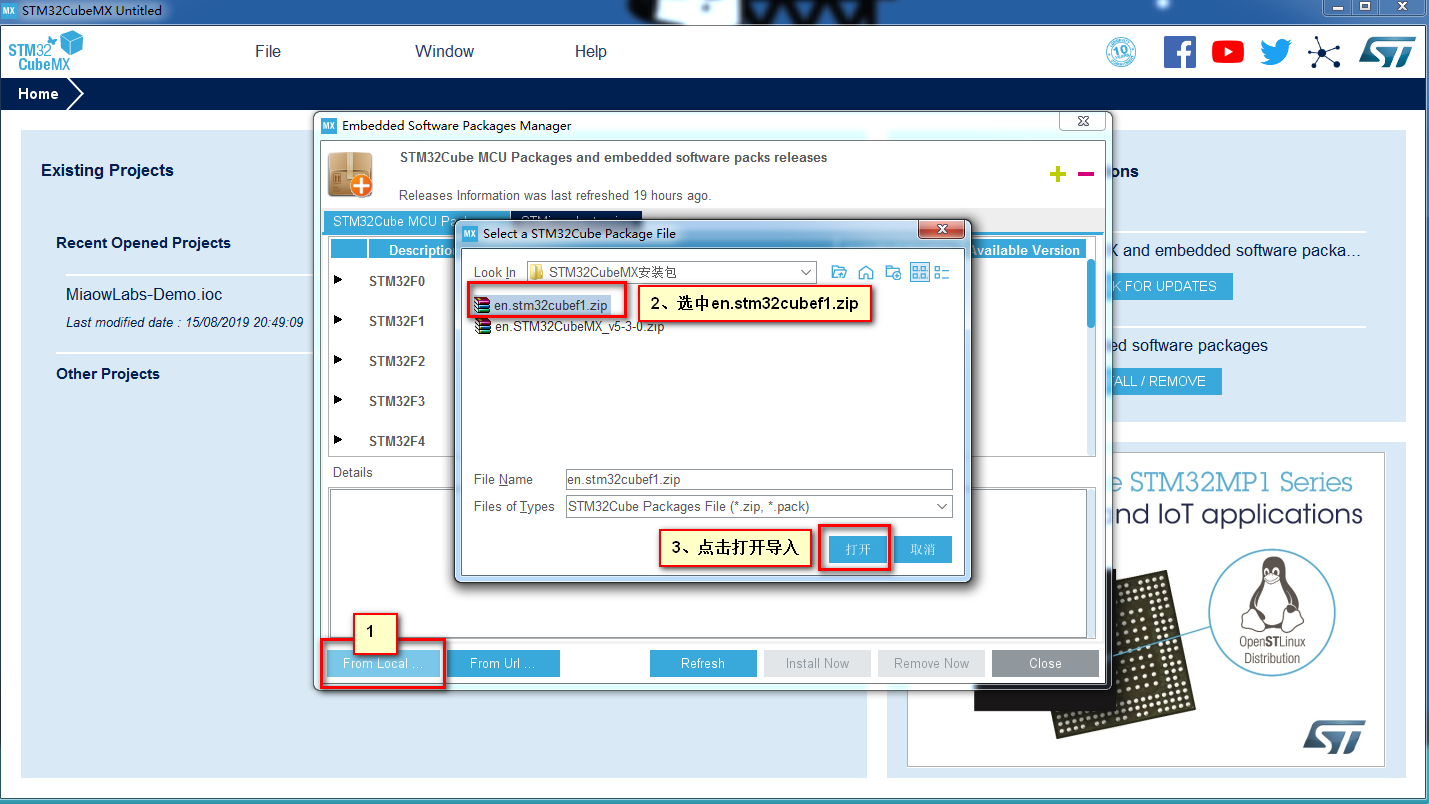
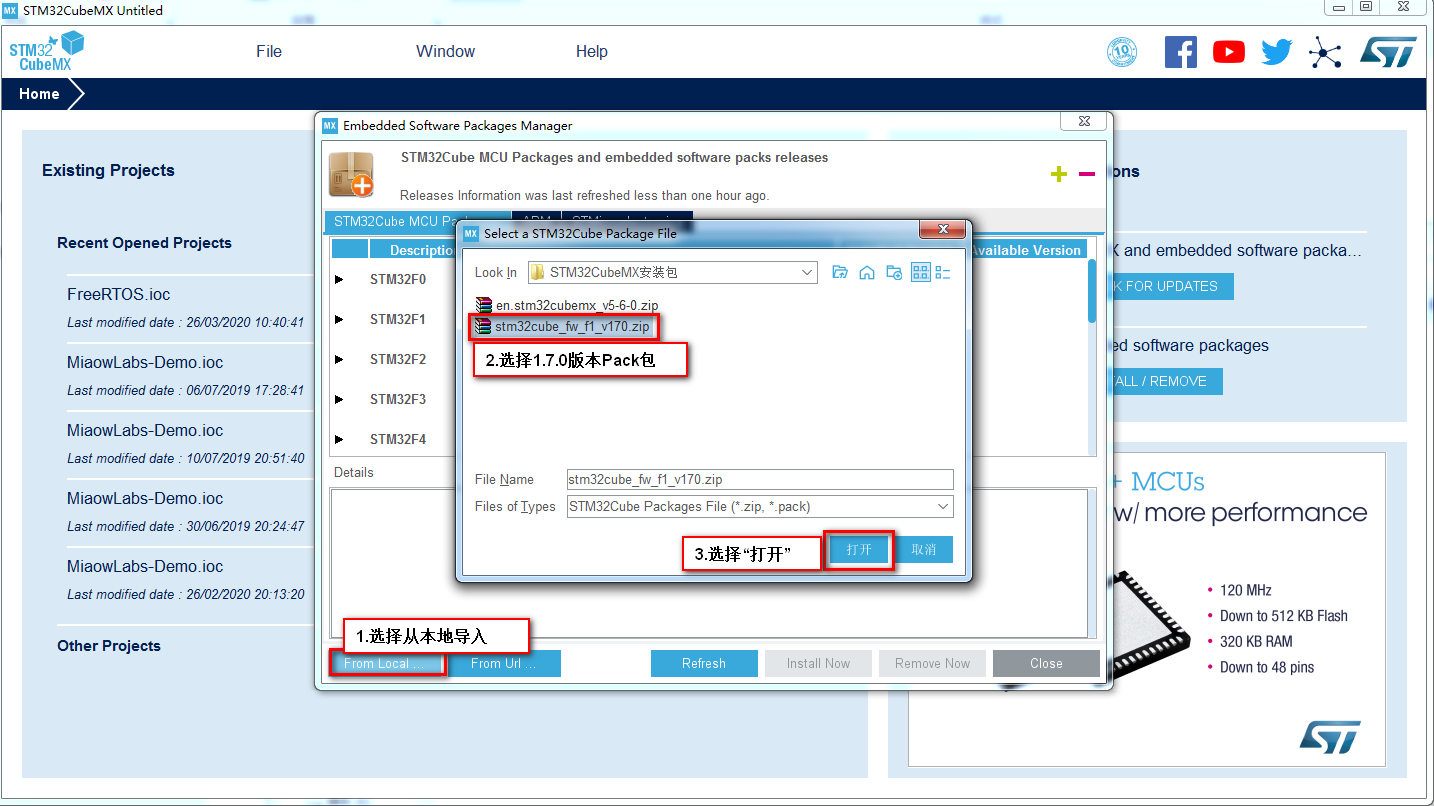
测试图片居中排版

diff --git a/A08.md b/A08.md
@@ -1,18 +1,18 @@
 # 安装 STM32CubeMX 软件
 
-> *本小节详细介绍如何安装 STM32CubeMX 软件。*
+> *本小节详细介绍如何安装和使用 STM32CubeMX 软件。*
 
 STM32CubeMX 软件是 STM32 ARM Cortex-M 微控制器的图形配置和底层代码生成工具。近年来，STMicroelectronics 公司一直大力推广 HAL + STM32CubeMX 的开发方式，STM32CubeMX 软件可以通过图形化向导可以快速、轻松配置 STM32 系列单片机的底层驱动，并生成相应的初始化 C 代码。从此，我们不需要像建立各种文件夹、复制各种各样的库文件才能新建一个工程。当你熟悉使用 STM32CubeMX 软件后，你不会想回滚使用以前的老旧的新建工程方法。
 
 ### 相关链接
 
-* STM32CubeMX 官网地址： [官网地址](https://www.st.com/zh/development-tools/stm32cubemx.html)
+* STM32CubeMX 官方网站下载地址： [官方网站](https://www.st.com/zh/development-tools/stm32cubemx.html)
 
-> *在相关链接中的官网地址可以下载最新版本的 STM32CubeMx。*
+> *在相关链接中的官网地址可以下载最新版本的 STM32CubeMx。截至2020年4月5日，最新版本为 5.6.0*
 
 ### 具体步骤
 
-在相关链接中的官网地址可以下载最新版本的 STM32CubeMx。本示例直接使用光盘里面的安装包进行安装，STM32CubeMx 版本号为 MX.5.2.1。
+下载软件。上面内容已给出的相关链接，可以从 ST 官方网站下载最新版本的 STM32CubeMx，或者可以直接使用光盘里面的安装包进行安装，STM32CubeMx 版本号为 5.6.0。
 
 在目录 `光盘\07.开发环境及烧录工具\en.stm32cubemx` 找到en.stm32cubemx.zip 压缩包，进行解压，得到 SetupSTM32CubeMX-4.27.0.exe 可执行文件，双击文件进行安装。
 
@@ -36,7 +36,7 @@ STM32CubeMX 软件是 STM32 ARM Cortex-M 微控制器的图形配置和底层代
 
 进入自动安装环节，稍等片刻就能完成。待安装完成后，点击 “Next”。
 
-![](/img/STM32Cube安装6.png)
+![完成安装](/img/STM32Cube安装6.png#center)
 
 安装成功，提示 “Installation has completed successfully”。点击 “Done”，退出安装界面。
 
@@ -52,9 +52,13 @@ STM32CubeMX 软件是 STM32 ARM Cortex-M 微控制器的图形配置和底层代
 
 接着，点击“From Local”，选择光盘/07、开发工具安装包/stm32cube_fw_f1_v170.zip，再点击打开，就会自动导入。
 
-![选中对应固件包，然后自动导入](/img/2019-08-17_154732.png)
+![选中对应固件包，然后自动导入 alt ><](/img/2019-08-17_154732.png)
 
-然后在工程设置里面把“Use Default Firmware Location”前面的勾√取消掉，手动选择 STM32Cube_FW_F1_V1.7.0。
+
+
+### 选择固件库
+
+在打开工程后，在工程设置里面把“Use Default Firmware Location”前面的勾√取消掉，手动选择 STM32Cube_FW_F1_V1.7.0。
 
 ![手动选中 STM32Cube_FW_F1_V1.7.0](/img/2020-03-06_212352.png)
 

diff --git a/A33.md b/A33.md
@@ -23,7 +23,7 @@
     >  *上述 12 个引脚是你不能再动（使用）的引脚，因为已经是平衡功能必需使用。你再使用，会破坏掉最基本的平衡功能。*
 
 * 剩余作为扩展功能使用的主控引脚共 20 个，功能划分如下：
-    > * 在核心板上，PA13/PA14 默认作为 SWD 功能引脚，PB12 默认连接 LED，PA11 默认已连接 Buttom（按键），PA9/PA10 默认已连接 USB-TTL 芯片。但是，当 IO 引脚需求紧缺时，一样可以共用这些引脚，比如超声波模块和按键共用 PB12 引脚。
+    > * 在核心板上，PA13/PA14 默认作为 SWD 功能引脚，PB12 默认连接 LED，PA11 默认已连接 Buttom（按键），PA9/PA10 默认已连接 USB-TTL 芯片。但是，当 IO 引脚需求紧缺时，一样可以共用这些引脚，比如超声波模块和按键共用 PA11 引脚。
     > * PB10/PB11：连接 SPP Bluetooth V3.0（蓝牙）模块
     > * PB13/PB14/PB15/PC13：连接 SPI 0.96 寸 OLED 显示模块
     > * PA11/PA2：连接超声波模块

diff --git a/README.md b/README.md
@@ -17,7 +17,7 @@
 
 ### 配套硬件
 
-淘宝链接：[「小霸王Lite」两轮自平衡小车](https://item.taobao.com/item.htm?spm=a230r.1.14.188.5d8d989fX6rDBH&id=568694879642&ns=1&abbucket=14#detail)
+淘宝链接：[「小霸王Lite」两轮自平衡小车](https://item.taobao.com/item.htm?spm=a1z10.1-c-s.w4004-18338352539.3.23461548V1pDRV&id=614152006353)
 
 > *使用配套硬件，可以节省硬件调试的时间，腾出更多时间来研究算法和代码。*
 
@@ -43,7 +43,7 @@
 
 ### 排版规范
 
-本书遵循 [中文排版指南](https://github.com/mzlogin/chinese-copywriting-guidelines) 规范。
+本书遵循 [中文文案排版指北（简体中文版）](https://github.com/mzlogin/chinese-copywriting-guidelines) 规范。
 
 ### 版权所有
 
